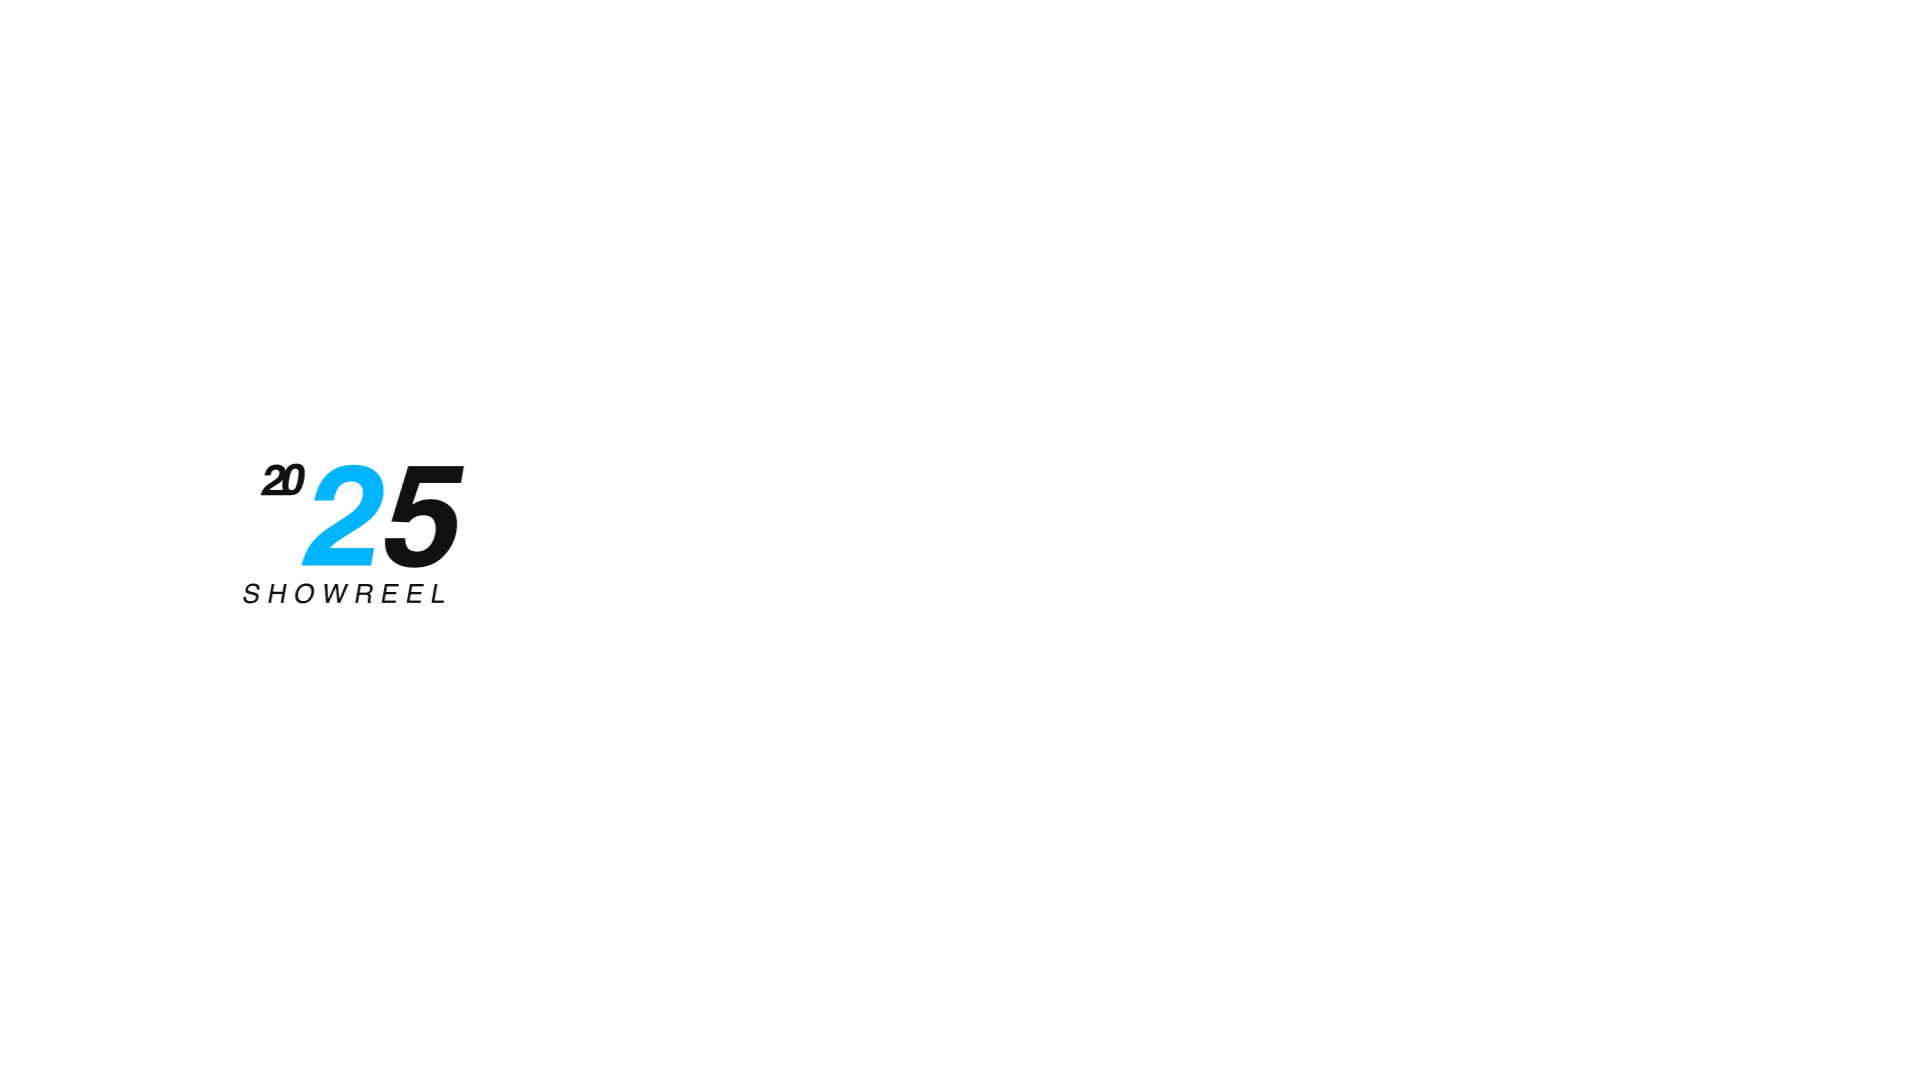
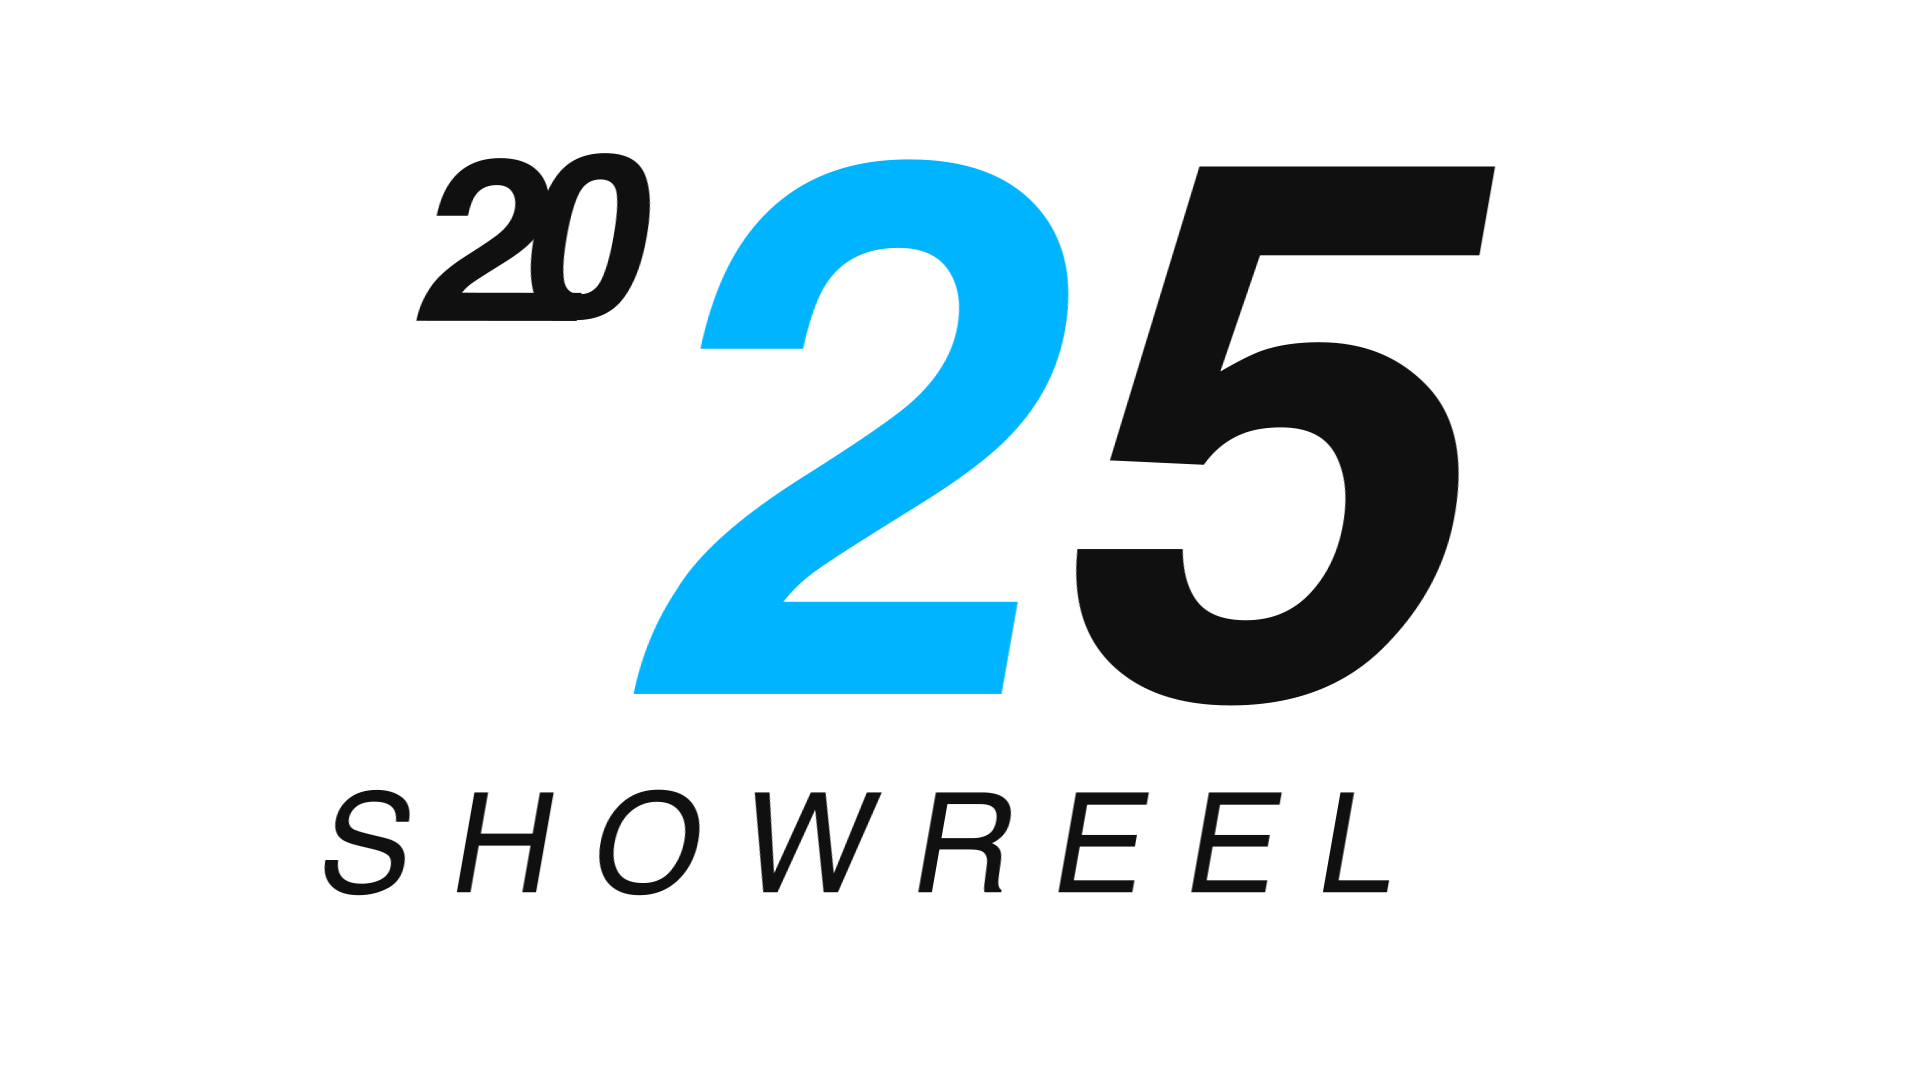
Initial upload of portfolio website with videos

Changed region(s): [[0.2188, 0.1222, 0.7812, 0.6722], [0.1562, 0.7333, 0.7188, 0.825], [0.125, 0.4278, 0.25, 0.5806]]

diff --git a/style.css b/style.css
@@ -63,13 +63,13 @@ section {
   position: absolute;
   top: 50%; left: 50%;
   transform: translate(-50%, -50%);
-  color: #fff;
+  color: #09b1ff;
   z-index: 2;
   font-size: 4rem;
   font-weight: bold;
   text-align: center;
   font-family: 'gothic', sans-serif;
-  text-shadow: 2px 2px 10px rgba(0,0,0,0.7);
+  text-shadow: none;
 }
 
 
@@ -168,6 +168,7 @@ section {
   object-fit: cover;
   z-index: 2;
   pointer-events: none; /* 鼠标穿透，不阻挡 hover */
+  transform: scale(0.15) translateX(-4800px) translateY(10px);
 }
 
 
@@ -206,7 +207,7 @@ section {
 
 #cover-container {
   width: 35%;                 /* 宽度占屏幕的 35% */
-  margin: 0 200px 150px auto;  /* 上 150px, 右 50px, 下 0, 左 auto */
+  margin: 0 200px 50px auto;  /* 上 150px, 右 50px, 下 0, 左 auto */
   position: relative;
 }
 
